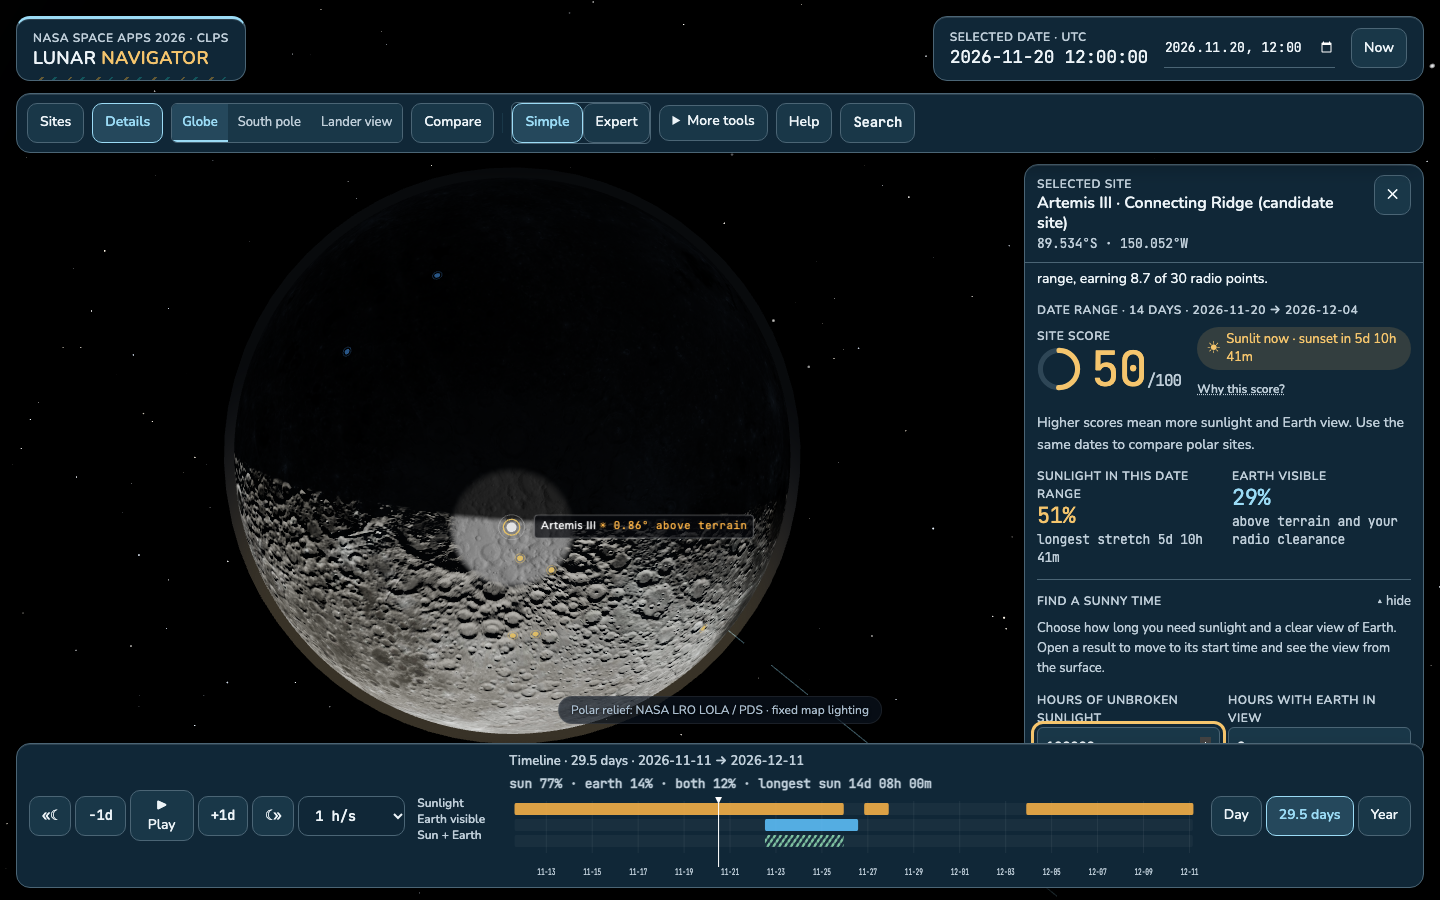
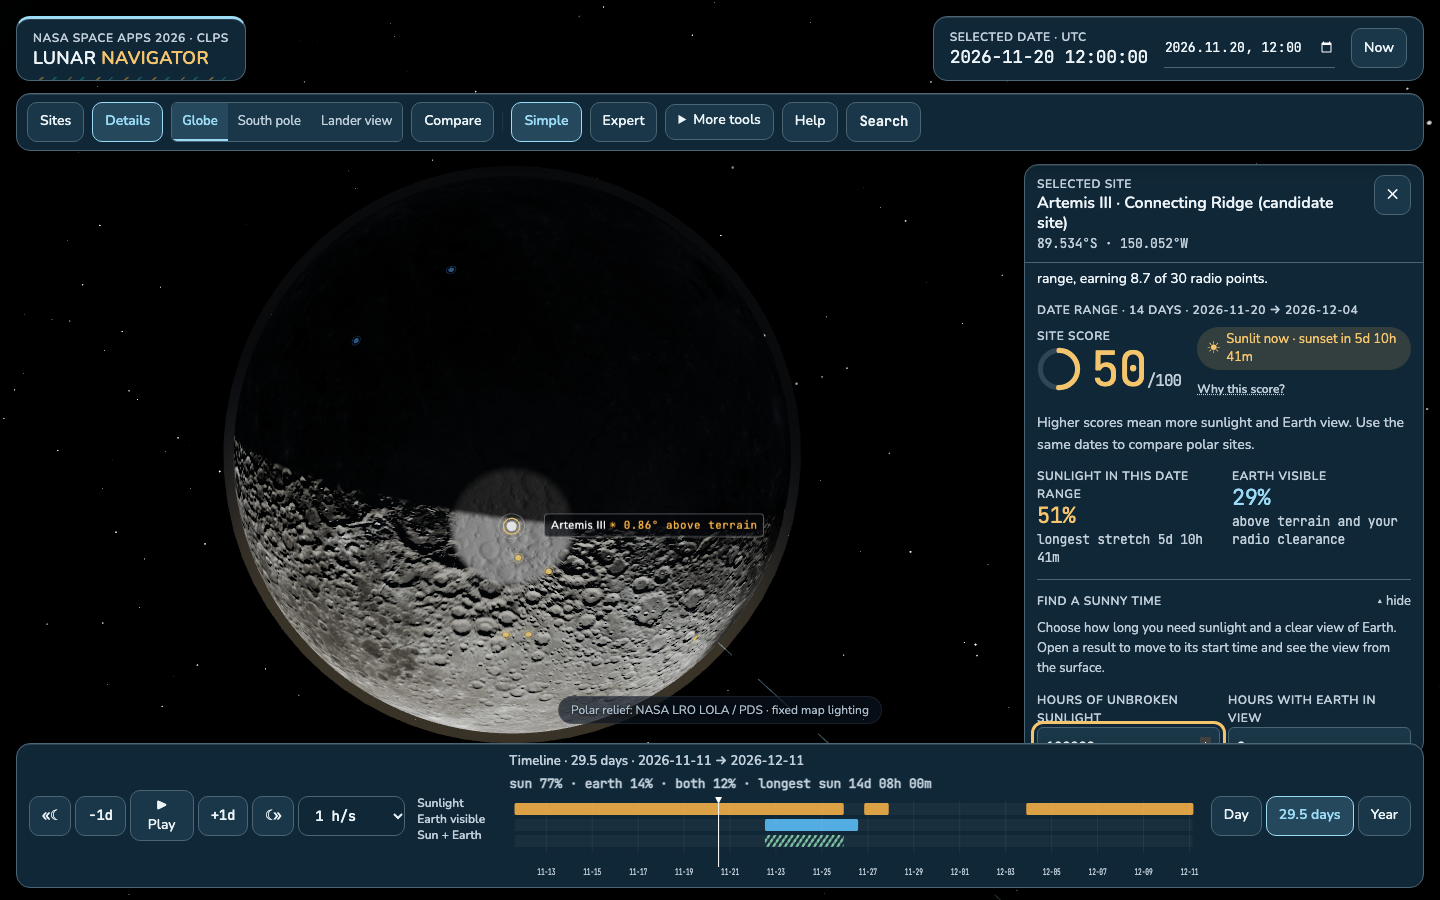
Drop the box drawn around the Simple and Expert buttons
Those two already carry a button border and a 10px radius, so the group wrapper
drew a second border around them and clipped their corners against its own
smaller one. They now sit in the toolbar like Sites, Details and Compare do.

The wrapper stays as a labelled group for screen readers; only its border,
radius and clipping are gone. The view switch keeps its box, because those
segments have no border of their own.

74 unit tests and 39 browser tests pass.

Changed region(s): [[0.1562, 0.4978, 0.5312, 0.8089], [0.0312, 0.1244, 0.9688, 0.1867]]

diff --git a/src/ui/AudienceSwitch.tsx b/src/ui/AudienceSwitch.tsx
@@ -4,7 +4,7 @@ import { en } from '@/i18n/en';
 export function AudienceSwitch({ compact = false }: { compact?: boolean }) {
   const mode = useStore((s) => s.mode), setMode = useStore((s) => s.setMode);
   if (compact) return <button className="btn" aria-label={mode === 'explorer' ? 'Switch to Expert mode' : 'Switch to Simple mode'} title={mode === 'explorer' ? 'Expert: advanced planning tools' : 'Simple: everyday exploration'} onClick={() => setMode(mode === 'explorer' ? 'planner' : 'explorer')}>{mode === 'explorer' ? en.nav.expert : en.nav.simple}</button>;
-  return <div className="flex rounded-md overflow-hidden border border-white/10" role="group" aria-label="Choose Simple or Expert mode">
+  return <div className="flex items-center gap-2" role="group" aria-label="Choose Simple or Expert mode">
     <button className={`btn ${mode === 'explorer' ? 'btn-on' : ''}`} aria-pressed={mode === 'explorer'} onClick={() => setMode('explorer')} title="Simple: for everyday exploration">{en.nav.simple}</button>
     <button className={`btn ${mode === 'planner' ? 'btn-on' : ''}`} aria-pressed={mode === 'planner'} onClick={() => setMode('planner')} title="Expert: advanced planning tools and full measurements">{en.nav.expert}</button>
   </div>;
